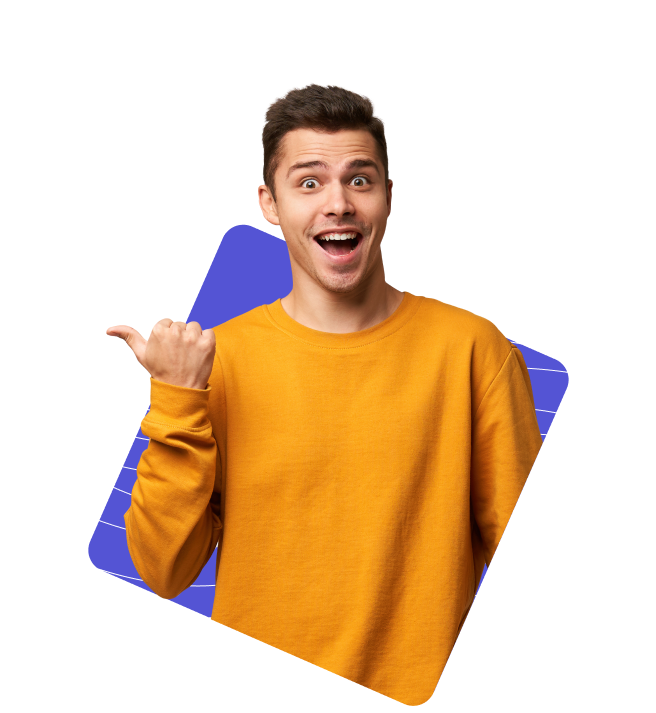
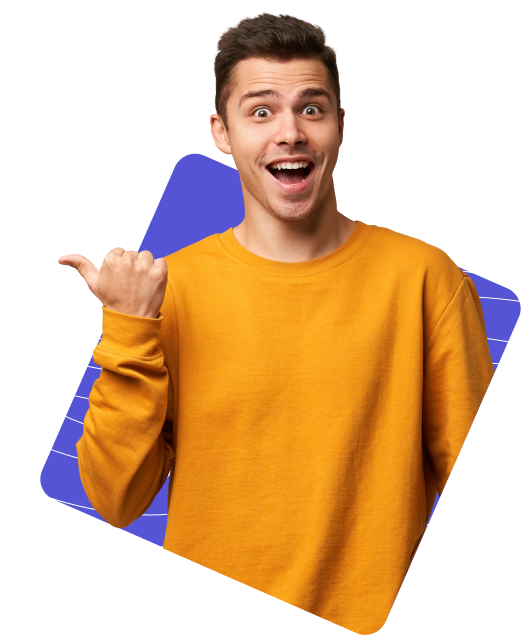
Create header and hero

diff --git a/css/style.css b/css/style.css
@@ -68,7 +68,7 @@ body {
 	gap: 40px;
 }
 .hero {
-	padding-top: 100px;
+	padding-top: 170px;
 	min-height: 100vh;
 	background-color: #19191b;
 }
@@ -79,6 +79,7 @@ body {
 }
 .hero .subtitle {
 	line-height: 39px;
+	max-width: 536px;
 }
 
 .btn-primary,
@@ -88,22 +89,57 @@ body {
 	background-color: #5454d4 !important;
 	outline: none;
 	border: none;
-    padding: 16px 27px;
+	padding: 16px 27px;
 }
 
+.hero .left::before {
+	content: "";
+	position: absolute;
+	width: 467px;
+	height: 1233.79px;
+	left: 250px;
+	top: -150px;
+	background: linear-gradient(
+		180deg,
+		rgba(84, 84, 212, 0.27) 0%,
+		rgba(84, 84, 212, 0.1134) 100%
+	);
+	filter: blur(300px);
+	border-radius: 233.5px;
+	transform: rotate(-54.37deg);
+}
 
-
-
-
-
-
-
+.hero .right {
+	position: relative;
+}
 .hero .right .img {
-    height: 100%;
-    max-height: 712px;
-
+	height: 100%;
+	max-height: 712px;
+	width: 560px;
 }
-
+.hero .right .zig,
+.hero .right .arrow,
+.hero .right .circle,
+.hero .right .plus {
+	position: absolute;
+	max-width: 95px;
+}
+.hero .right .zig {
+	top: 0;
+	left: -40px;
+}
+.hero .right .arrow {
+	top: 565px;
+	left: -90px;
+}
+.hero .right .circle {
+	top: 0;
+	left: 530px;
+}
+.hero .right .plus {
+	bottom: 0;
+	right: -30px;
+}
 
 .fs-18 {
 	font-size: 18px;

diff --git a/index.html b/index.html
@@ -72,7 +72,11 @@
                         </button>
                     </div>
                     <div class="right col-md-6">
-                        <img class="img" src="./assets/images/hero-image.png" alt="Hero">
+                        <img class="zig" src="./assets/images/zig.png" alt="zig">
+                        <img class="arrow" src="./assets/images/arrow.png" alt="arrow">
+                        <img class="circle" src="assets/images/circle.png" alt="circle">
+                        <img class="plus" src="./assets/images/plus.png" alt="plus">
+                        <img class="img ms-auto" src="./assets/images/hero-image.png" alt="Hero">
                     </div>
                 </div>
             </div>
